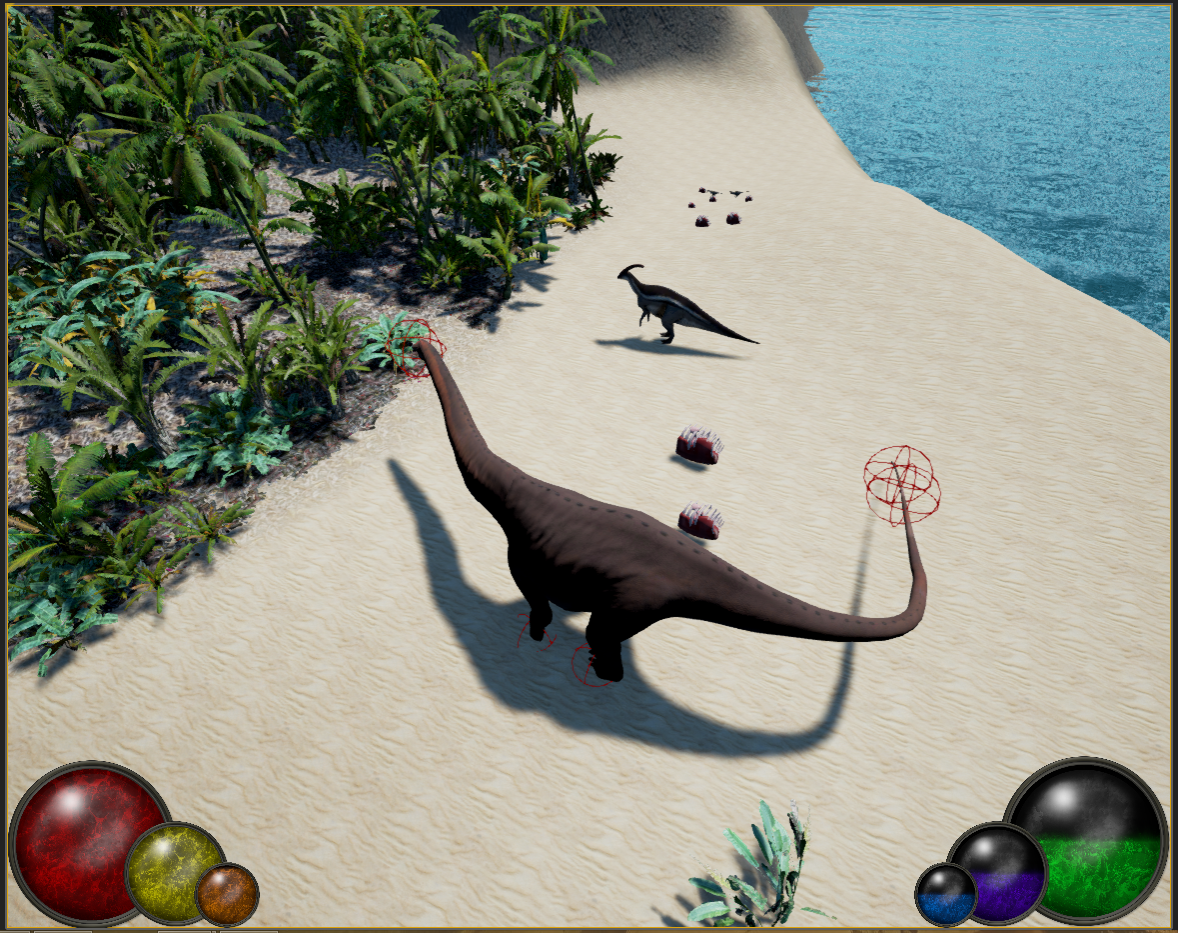
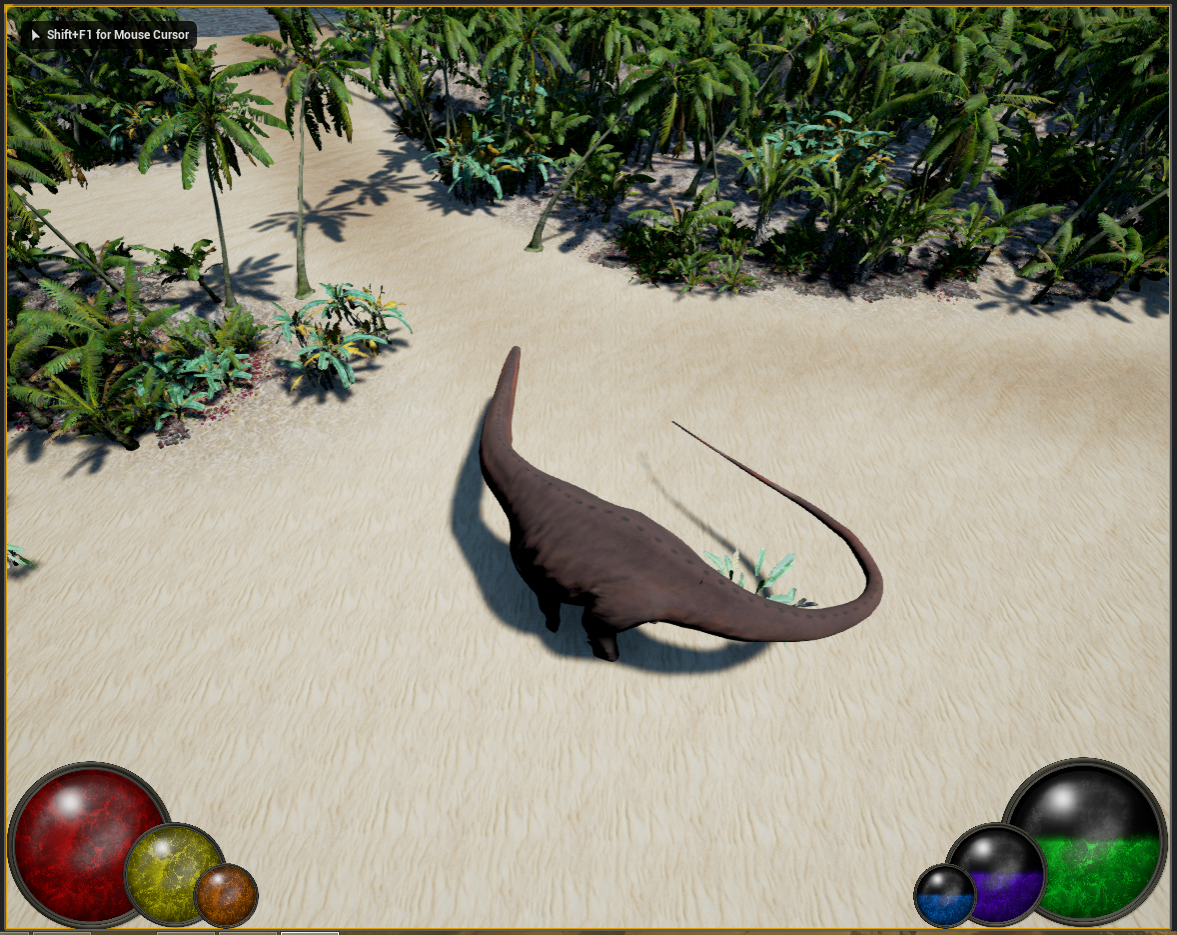
Adding pictures to Tail Tracking blog post

diff --git a/blog/content/post/Tail Tracking.md b/blog/content/post/Tail Tracking.md
@@ -37,8 +37,10 @@ And super last, I added knockback to its tail.  It slaps Velociraptors pretty ha
 
 When you press the right mouse button, the tail cracks like a whip sweeping the area it is pointed.  It seems to be quite lethal and very scary, even from the high seat of playing the Apatosaurus.  I can't imagine how intimidating this tail will be to a potential predator.  Combining these tweaks and alot of time and attention to detail of this, I got these great results:
 
-(Need to take more pictures later to insert here)
 <img src="/images/TailTracking/Tail1.png" width=600>
+<img src="/images/TailTracking/Tail2.png" width=600>
+<img src="/images/TailTracking/Tail3.png" width=600>
+<img src="/images/TailTracking/Tail4.png" width=600>
 
 I hope you enjoyed reading about how tail tracking was achieved in Paleo Playground!  I'm pretty excited about it, as I feel like this little detail will make our sauropod much more fun to play and much more capable of defending itself as well, doing justice to the glorious Diplodocids of the Jurassic.
 
